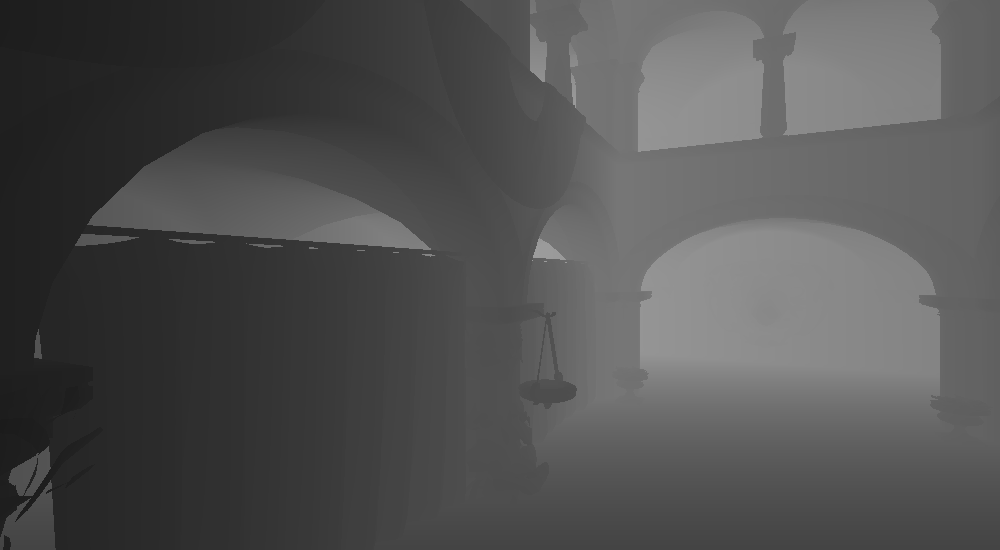
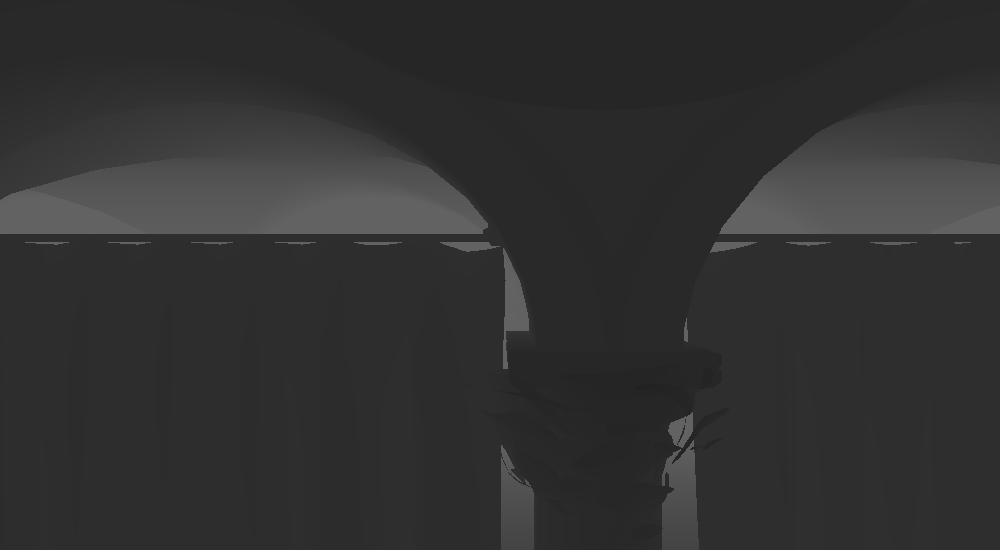
supply all the lacking necessary information in the Lambertian pass

diff --git a/AcquitanceDirectX/LambertianPass.h b/AcquitanceDirectX/LambertianPass.h
@@ -1,19 +1,22 @@
 #pragma once
 #include "RenderQueuPass.h"
 #include "Camera.h"
+#include "ShadowCameraCbuf.h"
 
 class LambertianPass : public RenderQueuePass
 {
 public:
 	LambertianPass(const std::string& name, Graphics& gfx)
 		:
-		RenderQueuePass(name)
+		RenderQueuePass(name),
+		pShadowCbuf{std::make_shared<Bind::ShadowCameraCbuf>(gfx)}
 	{
 		RegisterSink(DirectPassSink<RenderTarget>::Make("buffer", target));
 		RegisterSource(DirectPassSource<RenderTarget>::Make("buffer", target));
 		RegisterSink(DirectPassSink<DepthStencil>::Make("depthStencil", stencil));
 		RegisterSource(DirectPassSource<DepthStencil>::Make("depthStencil", stencil));
-
+		RegisterSink(DirectPassSink<Bind::Bindable>::Make("shadowMap", pDepthMap));
+		AddBind(pShadowCbuf);
 		AddBind(Bind::Blender::Resolve(gfx, false));
 		AddBind(Bind::Stencil::Resolve(gfx, Bind::Stencil::Mode::Off));
 	}
@@ -21,9 +24,16 @@ public:
 	{
 		pMainCam = &cam;
 	}
+
+	void BindShadowCamera(const Camera& cam) noexcept
+	{
+		pShadowCbuf->SetCamera(cam);
+	}
+
 	void Execute(Graphics& gfx) override
 	{
 		assert(pMainCam);
+		pShadowCbuf->Update(gfx);
 		pMainCam->BindToGraphics(gfx);
 		RenderQueuePass::Execute(gfx);
 	}
@@ -31,5 +41,7 @@ public:
 	
 private:
 	const Camera* pMainCam = nullptr;
+	std::shared_ptr<Bind::ShadowCameraCbuf> pShadowCbuf;
+	std::shared_ptr<Bind::Bindable> pDepthMap;
 
 };

diff --git a/AcquitanceDirectX/RenderGraph.h b/AcquitanceDirectX/RenderGraph.h
@@ -223,6 +223,7 @@ public:
 	void BindShadowCamera(Camera& cam)
 	{
 		dynamic_cast<ShadowMappingPass&>(GetPassByName("shadowPass")).SetShadowCamRef(cam);
+		dynamic_cast<LambertianPass&>(GetPassByName("Lambertian")).BindShadowCamera(cam);
 	}
 	void DumpDepth(Graphics& gfx)
 	{
@@ -253,6 +254,7 @@ public:
 	
 		{
 			auto pass = std::make_unique < LambertianPass>("Lambertian", gfx);
+			pass->SetPassLinkage("shadowMap", "shadowPass.map");
 			pass->SetPassLinkage("buffer", "clearRt.buffer");
 			pass->SetPassLinkage("depthStencil", "clearDS.buffer");
 			AddPass(std::move(pass));

diff --git a/AcquitanceDirectX/ShadowCameraCbuf.cpp b/AcquitanceDirectX/ShadowCameraCbuf.cpp
@@ -1,0 +1,29 @@
+#include "ShadowCameraCbuf.h"
+
+namespace Bind
+{
+	ShadowCameraCbuf::ShadowCameraCbuf(Graphics& gfx, UINT slot)
+		
+	{
+		pVcbuf = std::make_unique <Bind::VertexConstantBuffer<Transform>>(gfx, slot);
+	}
+
+	void ShadowCameraCbuf::SetCamera(const Camera& cam)
+	{
+		pCamera = &cam;
+	}
+
+	void ShadowCameraCbuf::Bind(Graphics& gfx) noexcept
+	{
+		pVcbuf->Bind(gfx);
+	}
+
+	void ShadowCameraCbuf::Update(Graphics& gfx)
+	{
+		Transform t
+		{
+			DirectX::XMMatrixTranspose(pCamera->GetMatrix() * pCamera->GetProjection())
+		};
+		pVcbuf->Update(gfx, t);
+	}
+}

diff --git a/AcquitanceDirectX/ShadowCameraCbuf.h b/AcquitanceDirectX/ShadowCameraCbuf.h
@@ -1,0 +1,22 @@
+#pragma once
+#include "Camera.h"
+#include "Bindable.h"
+#include "BindableCommon.h"
+namespace Bind {
+	class ShadowCameraCbuf :public Bind::Bindable
+	{
+	public:
+		struct Transform
+		{
+			DirectX::XMMATRIX ViewProj;
+		};
+		void SetCamera(const Camera& cam);
+		void Bind(Graphics& gfx) noexcept override;
+		ShadowCameraCbuf(Graphics& gfx, UINT slot = 3u);
+		void Update(Graphics& gfx);
+	private:
+		const Camera* pCamera;
+		std::unique_ptr<Bind::VertexConstantBuffer<Transform>> pVcbuf;
+
+	};
+}

diff --git a/AcquitanceDirectX/Camera.h b/AcquitanceDirectX/Camera.h
@@ -14,6 +14,7 @@ class Camera
 public :
 	Camera(Graphics& gfx, const std::string& name_in, float pitch, float yaw, DirectX::XMFLOAT3 v, bool tethered = false);
 	DirectX::XMMATRIX GetMatrix() const noexcept;
+	DirectX::XMMATRIX GetProjection() const noexcept;
 	void SpawnWidgets() noexcept;
 	void Reset() noexcept;
 	void BindToGraphics(Graphics& gfx) const;

diff --git a/AcquitanceDirectX/ShadowMappingPass.h b/AcquitanceDirectX/ShadowMappingPass.h
@@ -29,7 +29,7 @@ public:
 		AddBind(Blender::Resolve(gfx, false));
 		//AddBind(anotherDepth);
 		
-		RegisterSource(DirectPassSource<DepthStencil>::Make("shadowMap", stencil));
+		RegisterSource(DirectPassSource<DepthStencil>::Make("map", stencil));
 	}
 	
 	void Execute(Graphics& gfx)  noexcept override

diff --git a/AcquitanceDirectX/Camera.cpp b/AcquitanceDirectX/Camera.cpp
@@ -54,6 +54,11 @@ DirectX::XMMATRIX Camera::GetMatrix() const noexcept
 	
 }
 
+DirectX::XMMATRIX Camera::GetProjection() const noexcept
+{
+	return  prj.GetMatrix();
+}
+
 void Camera::SetPos(DirectX::XMFLOAT3 pos_in)
 {
 	pos = pos_in;
